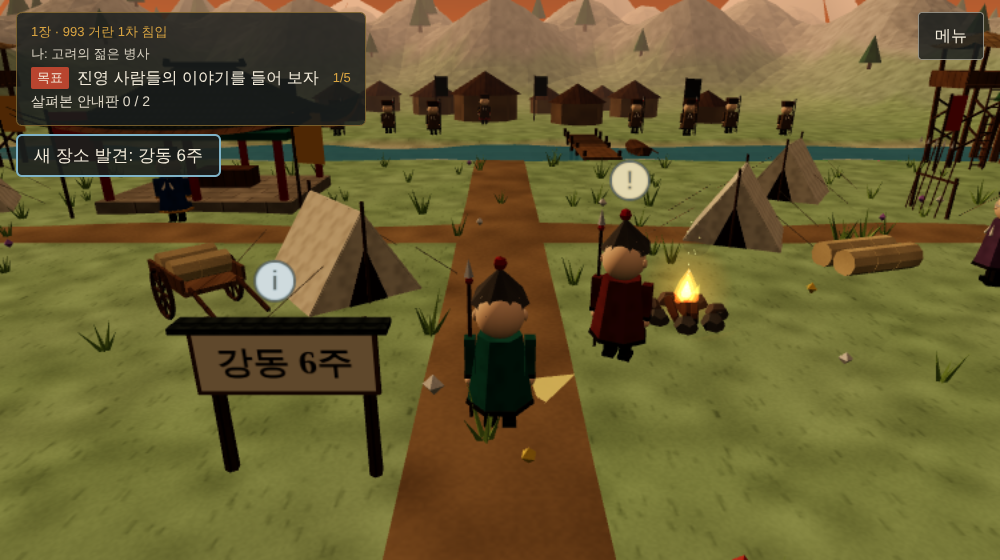
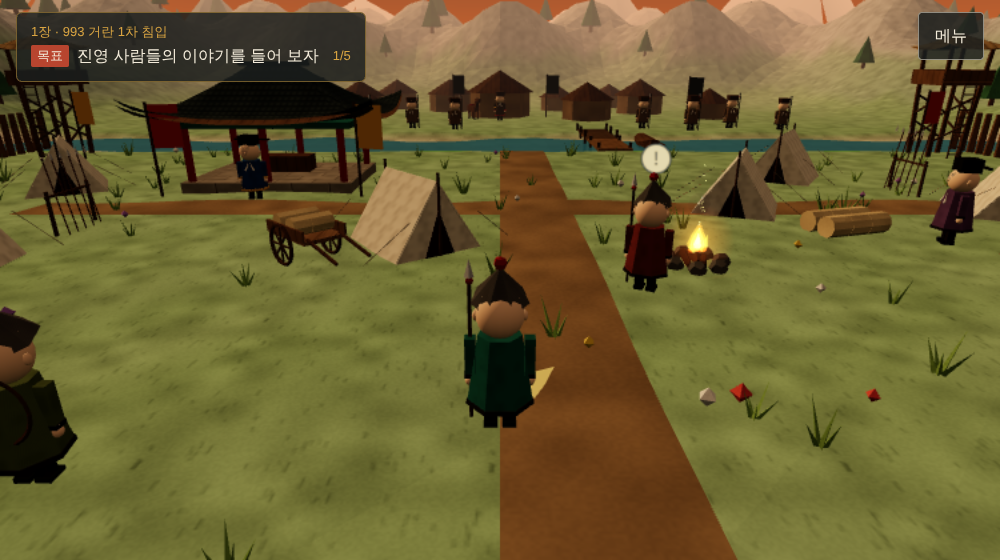
고려 1장: 안내판 없애기, 거란군이 줄지어 행군해 물러나는 장면(D-7)
- 강동 6주·고려와 송, 거란 안내판을 뺐다(진영 이름판은 남김). 안내판이 0개라 '살펴본 안내판' 표시는 숨는다.
  안내판 사실은 이미 궁수 대사(S19)와 철수 해설(S1)에 있어 옮기지 않았다.
- 철수: 진영을 걷고 깃발 병사가 앞장, 말 탄 소손녕, 두 줄 대열이 차례로 몸을 돌려 걸어가며 흙먼지를 일으키고, 멀어지면 흐려져 사라진다(땅속으로 꺼지지 않음, 불길 없음).
  서희와 학생은 다리 건너편에 서고 카메라는 두 사람 뒤에서 대열을 비스듬히 본다.

Claude-Session: https://claude.ai/code/session_014LB5kAoBxkJ3uzw5BHNRPe

diff --git a/chapters/ch1/scene.js b/chapters/ch1/scene.js
@@ -1,5 +1,4 @@
 // 1장 장면: 노을 진 고려 진영, 강, 강 건너 거란 진영, 강동 6주 빛기둥.
-import { makeSign } from '../../core/signs.js';
 import * as THREE from 'three';
 import { backdropMountains, surroundings } from '../kit/terrain.js';
 import { curvedHipRoof, tent, cart, boat, watchtower, spearRack, archeryTarget } from '../kit/buildings.js';
@@ -23,6 +22,29 @@ function groundH(x, z) {
   return h;
 }
 function seeded(s) { return () => (s = (s * 16807) % 2147483647) / 2147483647; }
+
+// 소손녕이 타는 말(로우폴리). 머리가 +z 쪽, 다리 넷은 걸을 때 흔든다(D-7)
+function makeHorse() {
+  const g = new THREE.Group(); g.name = 'horse';
+  const p = (geo, color, x, y, z, parent = g) => { const m = new THREE.Mesh(geo, mat(color)); m.position.set(x, y, z); m.castShadow = true; parent.add(m); return m; };
+  const coat = 0x6b4a32, dark = 0x2e2219;
+  p(new THREE.BoxGeometry(0.62, 0.62, 1.6), coat, 0, 1.08, 0); // 몸통
+  p(new THREE.BoxGeometry(0.34, 0.85, 0.4), coat, 0, 1.55, 0.78).rotation.x = 0.5; // 목
+  p(new THREE.BoxGeometry(0.12, 0.75, 0.14), dark, 0, 1.68, 0.6).rotation.x = 0.5; // 갈기
+  p(new THREE.BoxGeometry(0.3, 0.32, 0.64), coat, 0, 1.92, 1.12); // 머리
+  for (const sx of [-0.09, 0.09]) p(new THREE.ConeGeometry(0.05, 0.16, 4), dark, sx, 2.13, 0.92);
+  p(new THREE.BoxGeometry(0.12, 0.7, 0.12), dark, 0, 1.0, -0.88).rotation.x = -0.35; // 꼬리
+  p(new THREE.BoxGeometry(0.66, 0.1, 0.62), 0x7a2a22, 0, 1.43, 0); // 안장
+  const legs = [];
+  for (const [x, z] of [[-0.2, 0.62], [0.2, 0.62], [-0.2, -0.62], [0.2, -0.62]]) {
+    const piv = new THREE.Group(); piv.position.set(x, 0.85, z); g.add(piv);
+    p(new THREE.BoxGeometry(0.16, 0.78, 0.18), coat, 0, -0.39, 0, piv);
+    p(new THREE.BoxGeometry(0.18, 0.1, 0.2), dark, 0, -0.8, 0, piv);
+    legs.push(piv);
+  }
+  g.userData.legs = legs;
+  return g;
+}
 
 export function buildCh1Scene(world) {
   const L = world.level, q = world.quality, rand = seeded(7);
@@ -176,19 +198,25 @@ export function buildCh1Scene(world) {
 
   // 거란 진영 (강 건너편)
   const khitanGroup = new THREE.Group(); L.add(khitanGroup);
+  const khitanCamp = new THREE.Group(); khitanGroup.add(khitanCamp); // 천막·깃발: 군대를 물릴 때 진영을 걷는다(D-7)
   const yurt = (x, z, s = 1) => {
-    mk(new THREE.CylinderGeometry(2.2 * s, 2.2 * s, 1.7 * s, 9), 0x8f7556, x, 0.85 * s, z, khitanGroup);
-    mk(new THREE.ConeGeometry(2.5 * s, 1.5 * s, 9), 0x5e432c, x, 2.45 * s, z, khitanGroup);
+    mk(new THREE.CylinderGeometry(2.2 * s, 2.2 * s, 1.7 * s, 9), 0x8f7556, x, 0.85 * s, z, khitanCamp);
+    mk(new THREE.ConeGeometry(2.5 * s, 1.5 * s, 9), 0x5e432c, x, 2.45 * s, z, khitanCamp);
   };
   yurt(0, -41, 1.5);
   for (const [x, z, s] of [[-14, -40, 0.75], [9, -37], [-16, -44], [16, -44], [-6, -48], [7, -49], [-22, -38], [22, -38], [-13, -52], [14, -53]]) yurt(x, z, s || 0.9 + rand() * 0.3); // 왼쪽 앞 큰 천막은 담판을 가리지 않게 뒤로 옮기고 작게(D-6)
-  for (const [x, z] of [[-5, -39.5], [5, -39.5], [-18, -32], [18, -32]]) flag(x, z, 0x2a2a2e, khitanGroup, 4.4); // 담판 화면을 덮지 않게 소손녕 뒤로
+  for (const [x, z] of [[-5, -39.5], [5, -39.5], [-18, -32], [18, -32]]) flag(x, z, 0x2a2a2e, khitanCamp, 4.4); // 담판 화면을 덮지 않게 소손녕 뒤로
   const sonn = makePerson(LOOKS.sonn);
   sonn.position.set(0, 0, -36); sonn.rotation.y = 0; khitanGroup.add(sonn); // 강 쪽(서희와 학생이 다가오는 쪽)을 바로 본다
+  // 소손녕의 말: 천막 옆에 매어 두었다가 군대를 물릴 때 올라탄다(D-7)
+  const horse = makeHorse(); horse.position.set(-2.8, 0, -37.6); horse.rotation.y = 0.5; khitanGroup.add(horse);
+  const guards = [];
   [-20, -16, -12, -8, -4, 13, 17, 21, 25].forEach((x, i) => { // 다리에서 소손녕 앞으로 가는 길은 비워 둔다
     const k = makePerson(LOOKS.khitan);
     k.position.set(x, 0, -27 - (i % 2) * 1.5); khitanGroup.add(k);
-    mk(new THREE.CylinderGeometry(0.04, 0.04, 3, 4), 0x3a2c20, 0.62, 1.5, 0.1, k);
+    if (i === 0) { k.name = 'flagBearer'; flag(0.62, 0.1, 0x2a2a2e, k, 3.6); } // 물러날 때 맨 앞에 서는 깃발 병사
+    else mk(new THREE.CylinderGeometry(0.04, 0.04, 3, 4), 0x3a2c20, 0.62, 1.5, 0.1, k);
+    guards.push(k);
   });
 
   // 강동 6주 빛기둥 (담판 뒤에 나타남)
@@ -219,11 +247,9 @@ export function buildCh1Scene(world) {
   world.addNpc('seohui', LOOKS.seohui, -11, 1.3, 0.15);
   world.addNpc('archer', LOOKS.archer, -7, 20.5, Math.PI);
   world.addNpc('officer', LOOKS.officer, 15.5, 8, -Math.PI * 0.6);
-  // 안내판(볼거리): 읽지 않아도 장은 끝난다
-  world.addSpot('signGangdong', makeSign('강동 6주'), -1.5, 16.5);
-  world.addSpot('signSong', makeSign('고려와 송, 거란'), 9.5, 18);
+  // 안내판(볼거리)은 두지 않는다(D-7: 안내판은 문화유산·특정 건물 옆에만. 1장에는 그런 대상이 없다)
 
-  const scene = { gate, ring, khitanGroup, gangdongPillars, sonn, emberCount: fire.emberCount, retreating: false,
+  const scene = { gate, ring, khitanGroup, gangdongPillars, sonn, horse /* 다리를 흔들어야 하므로 굳히지 않는다 */, emberCount: fire.emberCount, retreating: false,
     campBounds: { ...world.bounds },
     // 서희가 앞장서 걷는 길(D-6): 지휘소 앞 → 흙길 → 나루터 → 널다리 → 소손녕 앞
     leadPath: [[-6, 2.8], [1.5, 2.8], [1.5, -6], [8, -12], [8, -25.8], [4.5, -29.5], [-1.1, -33.2]],
@@ -233,6 +259,37 @@ export function buildCh1Scene(world) {
       seohui: [-1.1, -33.2, Math.PI], player: [1.1, -33.2, Math.PI],
       cam: { pos: [0, 3.9, -29.4], target: [0, 0.3, -36] }, // 높이서 내려다봐 소손녕 얼굴이 두 사람 머리 위·대화창 위에 보이게
     },
+  };
+
+  // 거란군이 물러나는 모습(D-7): 진영을 걷고, 깃발 병사가 맨 앞, 말 탄 소손녕, 그 뒤로 두 줄.
+  // 앞줄부터 차례로 몸을 돌려 걸어가며 흙먼지를 일으키고, 멀어지면 흐려져 사라진다(땅속으로 꺼지지 않는다).
+  const MARCH = 2.6, FADE_FROM = -58, GONE = -80;
+  const DX = -0.41, DZ = -0.912, FACE = Math.atan2(DX, DZ); // 북쪽으로 조금 왼쪽(서쪽)으로 비스듬히 물러난다: 뒤에서 보아도 대열이 겹치지 않게
+  const march = [], dust = [];
+  let marchT = 0, dustT = 0;
+  scene.army = march.map(u => u.o);
+  scene.startRetreat = () => {
+    if (march.length) return scene.army;
+    khitanCamp.visible = false;
+    horse.add(sonn); sonn.position.set(0, 0.88, 0); sonn.rotation.y = 0;
+    sonn.userData.noWalk = true; sonn.userData.legs.forEach((l, i) => { l.rotation.set(0, 0, i ? -0.75 : 0.75); });
+    [guards[0], horse, ...guards.slice(1)].forEach((o, i) => {
+      const row = i < 2 ? i : 2 + Math.floor((i - 2) / 2);
+      const side = i < 2 ? 0 : ((i - 2) % 2 ? 0.9 : -0.9), along = i === 0 ? 5 : i === 1 ? 2.5 : -(row - 2) * 1.6;
+      const x = DX * along - DZ * side, z = -41 + DZ * along + DX * side;
+      o.position.set(x, Math.max(0, groundH(x, z)), z); o.rotation.y = 0; o.visible = true; // 처음에는 고려 쪽을 보고 서 있다
+      const mats = [];
+      o.traverse(m => { if (m.isMesh) { m.material = m.material.clone(); m.material.transparent = true; mats.push(m.material); } });
+      march.push({ o, delay: 0.4 + row * 0.35, mats });
+    });
+    const n = Math.round(6 + 8 * Math.min(1, q.particles));
+    for (let i = 0; i < n; i++) {
+      const d = new THREE.Mesh(new THREE.IcosahedronGeometry(0.45, 0), new THREE.MeshLambertMaterial({ color: 0xc9ad84, transparent: true, opacity: 0, depthWrite: false, flatShading: true }));
+      d.visible = false; d.userData.age = 9; L.add(d); dust.push(d);
+    }
+    scene.army = march.map(u => u.o);
+    scene.retreating = true;
+    return scene.army;
   };
 
   // 움직임: 깃발, 화톳불, 물결, 빛나는 원, 거란군 철수, 빛기둥
@@ -246,8 +303,32 @@ export function buildCh1Scene(world) {
     }
     if (ring.visible) ring.material.opacity = 0.55 + Math.sin(t * 4) * 0.3;
     if (scene.retreating && khitanGroup.visible) {
-      khitanGroup.position.y -= dt * 1.4; khitanGroup.position.z -= dt * 3;
-      if (khitanGroup.position.y < -6) khitanGroup.visible = false;
+      marchT += dt; dustT += dt;
+      const walking = [];
+      for (const u of march) {
+        const o = u.o, k = marchT - u.delay;
+        if (k < 0 || !o.visible) continue;
+        const e = Math.min(1, k / 0.55); o.rotation.y = FACE * e * e * (3 - 2 * e); // 몸을 돌린다
+        if (e < 1) continue;
+        o.position.x += DX * MARCH * dt; o.position.z += DZ * MARCH * dt;
+        o.position.y = Math.max(0, groundH(o.position.x, o.position.z));
+        const a = Math.min(1, Math.max(0, (o.position.z - GONE) / (FADE_FROM - GONE)));
+        for (const m of u.mats) m.opacity = a;
+        if (o.position.z < GONE) { o.visible = false; continue; }
+        if (o === horse) { const s = Math.sin(marchT * 9) * 0.5; horse.userData.legs.forEach((l, j) => { l.rotation.x = j === 0 || j === 3 ? s : -s; }); }
+        if (o.position.z > FADE_FROM) walking.push(o);
+      }
+      if (walking.length && dustT > 0.14) { // 발밑 흙먼지
+        dustT = 0;
+        const d = dust.find(p => p.userData.age > 1.4), w = walking[Math.floor(Math.random() * walking.length)];
+        if (d) { d.userData.age = 0; d.visible = true; d.position.set(w.position.x + (Math.random() - 0.5) * 0.8, 0.25, w.position.z + 0.6); }
+      }
+    }
+    for (const d of dust) {
+      if (!d.visible) continue;
+      const a = (d.userData.age += dt);
+      if (a > 1.4) { d.visible = false; continue; }
+      d.scale.setScalar(0.6 + a * 1.3); d.position.y += dt * 0.35; d.material.opacity = 0.45 * (1 - a / 1.4);
     }
     if (gangdongPillars.visible) gangdongPillars.children.forEach((c, i) => { if (c.isMesh) c.material.opacity = 0.25 + Math.sin(t * 2 + i) * 0.1; });
   });

diff --git a/tests/ch1.test.js b/tests/ch1.test.js
@@ -26,7 +26,7 @@ import { validateScript } from '../core/content.js';
 import ch1Script from '../chapters/ch1/script.js';
 import ch1, { introWalk, INTRO_FROM, START, seohuiTalk, followSeohui } from '../chapters/ch1/chapter.js';
 import * as THREE from 'three';
-import { runChapter } from '../core/flow.js';
+import { runChapter, roam } from '../core/flow.js';
 import { CHAPTERS } from '../chapters/index.js';
 
 const answers = new Set([
@@ -204,13 +204,19 @@ test('ch1 D-6: negotiation stays in the same scene and faces Sonn from the front
   const events = []; let shot = null;
   const fade0 = s.ctx.fade; s.ctx.fade = async v => { events.push('fade'); return fade0(v); };
   const ask0 = s.dialogue.ask;
-  s.dialogue.ask = c => { events.push('ask'); if (!shot) { for (let i = 0; i < 60; i++) s.w.step(1 / 30, { x: 0, z: 0 }); shot = s.w.camera.position.clone(); } return ask0(c); };
+  let sc = null; const checks = [];
+  // 소손녕이 묻는 그 순간의 구도를 검사한다(담판 뒤 소손녕은 말을 타고 물러난다, D-7)
+  s.dialogue.ask = c => { events.push('ask'); if (!shot) { for (let i = 0; i < 60; i++) s.w.step(1 / 30, { x: 0, z: 0 }); shot = s.w.camera.position.clone(); checks.push(lookCheck()); } return ask0(c); };
   const answers = new Set([ch1Script.negotiation.q1, ch1Script.negotiation.q2].map(c => c.options.find(o => o.correct).text));
   const bot = touchBot(s, { answers });
   try {
-    const sc = ch1.buildScene(s.w, s.ctx);
+    sc = ch1.buildScene(s.w, s.ctx);
     await ch1.minigame(s.ctx);
     ok(events.indexOf('fade') === -1 || events.indexOf('fade') > events.lastIndexOf('ask'), 'no fade before the answers: ' + events.join(','));
+    eq(checks.length, 1);
+    checks[0]();
+  } finally { bot.stop(); s.done(); }
+  function lookCheck() {
     const sonn = sc.sonn, cam = s.w.camera;
     const face = new THREE.Vector3(Math.sin(sonn.rotation.y), 0, Math.cos(sonn.rotation.y));
     const to = shot.clone().sub(sonn.position).setY(0).normalize();
@@ -227,7 +233,8 @@ test('ch1 D-6: negotiation stays in the same scene and faces Sonn from the front
       const hits = rc.intersectObjects(s.w.level.children, true).filter(h => vis(h.object) && !inside(h.object) && !h.object.isSprite);
       eq(hits.map(h => h.object.name || h.object.type), [], who + ' blocked');
     }
-  } finally { bot.stop(); s.done(); }
+    return () => {};
+  }
 }, { timeout: 60000 });
 
 test('ch1 D-6: a wrong answer gets a short hint from Seohui', async () => {
@@ -247,4 +254,37 @@ test('ch1: the story card is one short paragraph (S16)', () => {
   eq(ch1Script.intro.length, 1);
   eq(ch1Script.intro[0].text, '993년, 거란 장수 소손녕이 "80만 대군"을 이끌고 쳐들어와 고려에 항복하라고 했어요.');
   eq(ch1Script.intro[0].src, ['S16']);
+});
+
+test('ch1 D-7: no reading signs (the camp name board stays) and the sign counter is hidden', () => {
+  const w = testWorld(); buildCh1Scene(w);
+  eq([...w.npcs.values()].filter(n => n.spot).length, 0);
+  ok(w.level.getObjectByName('sign:고려군 진영'), 'camp name board stays');
+  ok(!ch1Script.npc.signGangdong && !ch1Script.npc.signSong, 'no sign lines left');
+  let shown = 'unset';
+  const stop = roam({ world: w, input: {}, dialogue: {}, onAction: () => () => {}, hud: { setFound: v => { shown = v; }, setPrompt() {}, setTalkEnabled() {} } }, { onTalk() {} });
+  eq(shown, null);
+  stop?.(); w.dispose();
+});
+
+test('ch1 D-7: the Khitan army turns and marches away in a column (flag first, Sonn on horseback), never sinking', () => {
+  const w = testWorld(); const s = buildCh1Scene(w);
+  const army = s.startRetreat();
+  ok(army.length >= 8, `${army.length} units`);
+  eq(army[0].name, 'flagBearer');
+  eq(s.sonn.parent, army[1], 'Sonn rides the horse');
+  eq(army[1].name, 'horse');
+  const wp = new THREE.Vector3(), z0 = army.map(o => o.getWorldPosition(wp).z);
+  for (let i = 0; i < 60; i++) {
+    w.step(0.1, { x: 0, z: 0 });
+    for (const o of army) if (o.visible) ok(o.getWorldPosition(wp).y >= -0.001, `${o.name} y ${wp.y}`);
+  }
+  eq(s.khitanGroup.position.y, 0);
+  army.forEach((o, i) => {
+    ok(o.getWorldPosition(wp).z < z0[i] - 5, `${o.name} moved away ${z0[i]} -> ${wp.z}`);
+    ok(Math.cos(o.rotation.y) < -0.85, `${o.name} faces away`);
+  });
+  for (let i = 0; i < 300; i++) w.step(0.1, { x: 0, z: 0 });
+  ok(army.every(o => !o.visible), 'gone into the distance');
+  w.dispose();
 });

diff --git a/chapters/ch1/chapter.js b/chapters/ch1/chapter.js
@@ -174,14 +174,16 @@ export default {
     await sayAll(dialogue, script.negotiation.closing);
     dialogue.close();
 
+    // 거란군이 진영을 걷고 줄지어 물러난다(D-7). 서희와 학생은 다리 건너편에 나란히 서서 그 뒷모습을 바라본다
     await ctx.fade(true);
-    world.bounds = { ...scene.campBounds };
-    world.moveNpc('seohui', ...SEOHUI_HOME);
-    placePlayer(world, FERRY_RETURN);
-    scene.retreating = true;
+    world.bounds = { ...scene.campBounds, z0: -34.5 };
+    world.moveNpc('seohui', -1.5, -30, Math.PI);
+    world.player.position.set(1.5, 0, -30); world.player.rotation.y = Math.PI;
+    scene.startRetreat();
+    world.setFixedCamera([-5.5, 4.6, -23.5], [2.5, 1, -45]); // 두 사람 뒤 조금 왼쪽 위에서 비스듬히 물러가는 대열을 내려다본다(깃발·말 탄 소손녕이 보이게)
     await ctx.fade(false);
     ctx.audio.play('whoosh');
-    await ctx.wait(1800);
+    await ctx.wait(3200);
     scene.gangdongPillars.visible = true;
     await sayAll(dialogue, script.retreat);
     ctx.setGoal(script.goals[4]);

diff --git a/chapters/ch1/script.js b/chapters/ch1/script.js
@@ -46,13 +46,6 @@ export default {
     archer: {
       always: [{ who: 'archer', text: '거란은 송나라와 다투고 있어서, 송과 가까운 고려를 경계한대.', src: ['S19'] }],
     },
-    signGangdong: { always: [
-      { who: 'narr', text: '서희의 담판 뒤 고려는 압록강 동쪽에 흥화진, 용주, 통주, 철주, 귀주, 곽주를 쌓았어요.', src: ['S1'] },
-      { who: 'narr', text: '이 여섯 고을을 강동 6주라고 해요.', src: ['S1'] },
-    ] },
-    signSong: { always: [
-      { who: 'narr', text: '거란은 송나라와 다투고 있어서, 송과 가까이 지내는 고려를 경계했어요.', src: ['S19'] },
-    ] },
     seohui: {
       tooEarly: [{ who: 'seohui', text: '먼저 진영의 병사에게 지금 상황을 들어 보아라.' }],
       // 첫 말: greet → 들은 사람의 말(heard, 병사·관리·궁수 차례) → land → go. 듣지 않은 사람의 말은 빠진다

diff --git a/docs/team/decisions.md b/docs/team/decisions.md
@@ -72,7 +72,7 @@
 - 할 일: (가) 강동 6주·송과 거란 안내판 제거(「고려군 진영」 장소 이름판은 유지). (나) 거란군이 돌아서 줄지어 행군해 물러나는 장면. 땅속으로 사라지지 않게, 불길 없이.
 - 하지 않을 것: 대화창 크기 변경, 다른 장, 전체 테스트, main 병합·배포
 - 확인 방법: 선생님이 안내판이 없는지, 거란군이 물러나는 모습을 보신다
-- 상태: 개발 중
+- 상태: 확인 대기
 
 ## D-8 (2026-10-27) 고려 2장: 말이 모이는 탐험 + 양규와 걷는 성벽 방어 + 백성이 따라오는 구출
 - 선생님 결정: 추천대로. ① 병사→백성→양규, 말이 양규의 결심으로 모임. ② 양규와 성벽 위를 걷다가 양규가 가리킨 곳에 가까이 가서 사다리를 밀어냄(같은 장면). ③ 구한 백성이 학생을 따라 성으로 걸어 들어옴. 상시 규칙 모두 적용(흥화진·나주 안내판 제거 포함).
